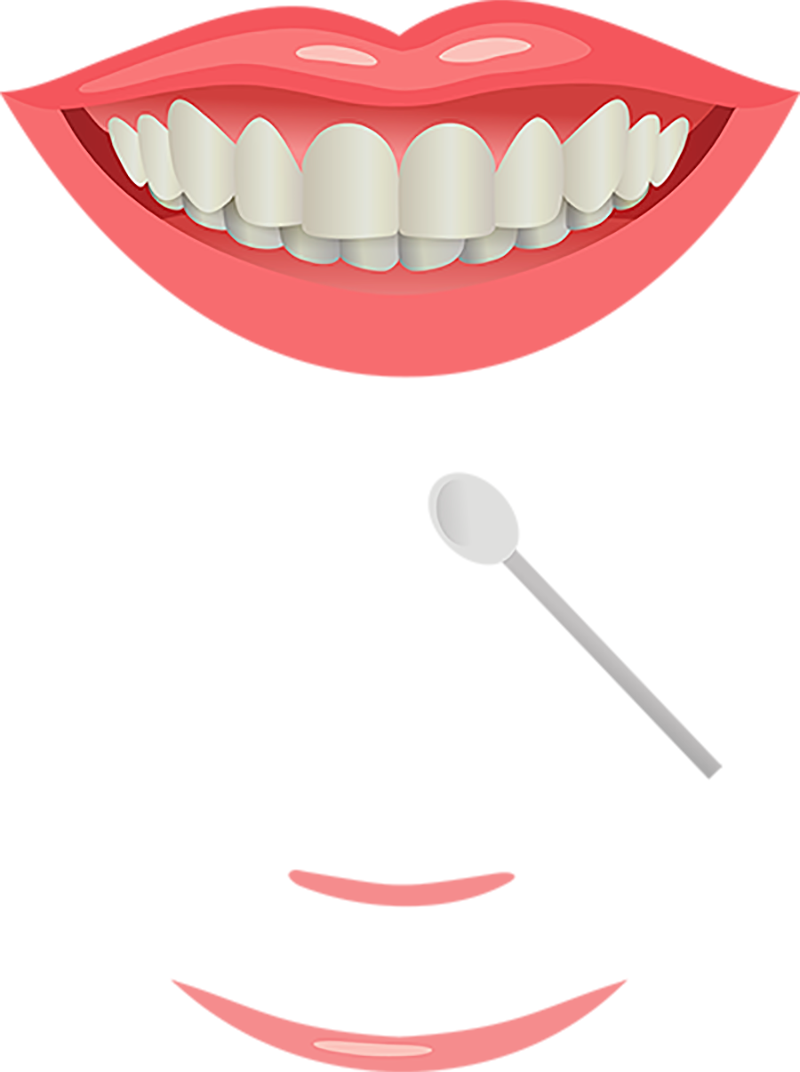
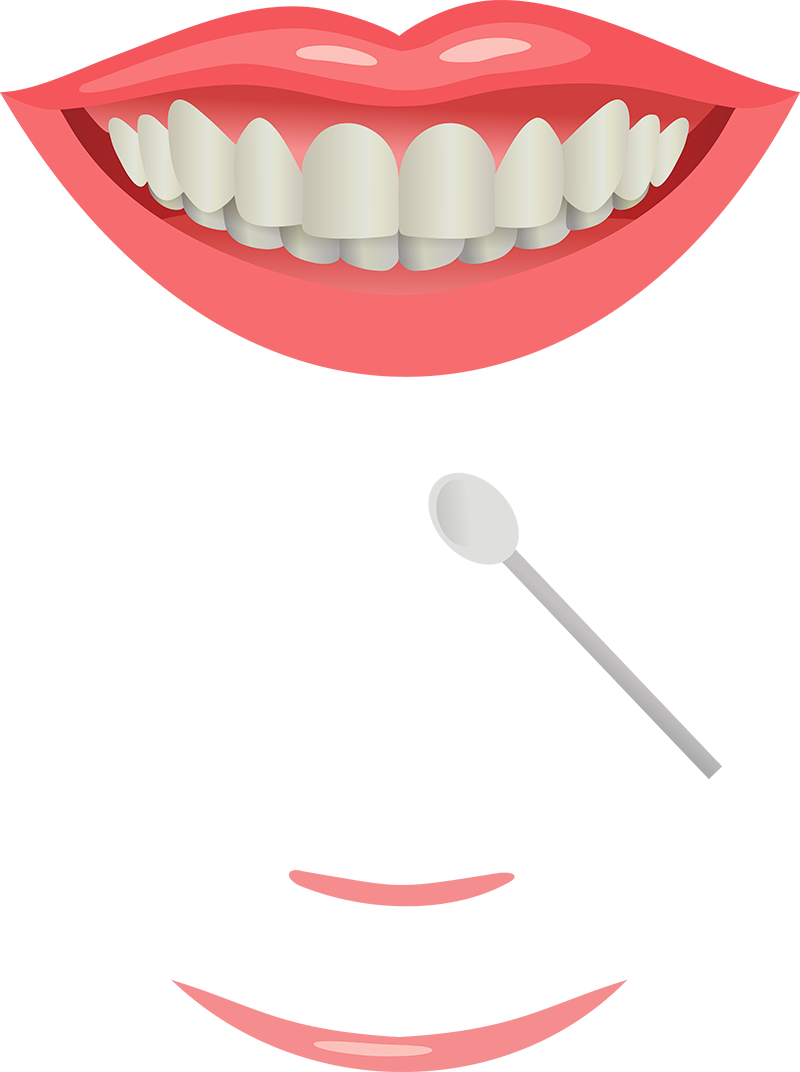
Новая ретина и отцентровка

diff --git a/css/style.css b/css/style.css
@@ -662,21 +662,21 @@ input.error,textarea.error{
 		background-image: url("../images/tooth-2.png");
 		bottom: 0px;
 		left: 201px;
-		-webkit-animation: badPick 1s 1 2s ease-in-out;
-		-moz-animation: badPick 1s 1 2s ease-in-out;
-		-ms-animation: badPick 1s 1 2s ease-in-out;
-		-o-animation: badPick 1s 1 2s ease-in-out;
-		animation: badPick 1s 1 2s ease-in-out;
+		-webkit-animation: badPick 1s 1 1.5s ease-in-out;
+		-moz-animation: badPick 1s 1 1.5s ease-in-out;
+		-ms-animation: badPick 1s 1 1.5s ease-in-out;
+		-o-animation: badPick 1s 1 1.5s ease-in-out;
+		animation: badPick 1s 1 1.5s ease-in-out;
 	}
 	.run .slick-active .tooth-3 {
 		background-image: url("../images/tooth-3.png");
 		bottom: 0px;
 		left: 241px;
-		-webkit-animation: goodPick 0.4s 1 3s ease-in-out forwards;
-		-moz-animation: goodPick 0.4s 1 3s ease-in-out forwards;
-		-ms-animation: goodPick 0.4s 1 3s ease-in-out forwards;
-		-o-animation: goodPick 0.4s 1 3s ease-in-out forwards;
-		animation: goodPick 0.4s 1 3s ease-in-out forwards;
+		-webkit-animation: goodPick 0.4s 1 2s ease-in-out forwards;
+		-moz-animation: goodPick 0.4s 1 2s ease-in-out forwards;
+		-ms-animation: goodPick 0.4s 1 2s ease-in-out forwards;
+		-o-animation: goodPick 0.4s 1 2s ease-in-out forwards;
+		animation: goodPick 0.4s 1 2s ease-in-out forwards;
 	}
 	@-webkit-keyframes badPick {
 		0% {
@@ -818,7 +818,7 @@ input.error,textarea.error{
 		background-image: url("../images/elipse.png");
 		background-repeat: no-repeat;
 		background-position: center 0px;
-		height: 373px;
+		height: 410px;
 	}
 	.main, .blesk, .big-blesk, .pen {
 		position: absolute;
@@ -828,13 +828,13 @@ input.error,textarea.error{
 		background-position: center top;
 		width: 400px;
 		height: 190px;
-		top: 31px;
+		top: 80px;
 	}
 	.slick-active .blesk {
 		background-position: center 102px;
 		width: 120px;
 		height: 24px;
-		top: 182px;
+		top: 231px;
 		left: 138px;
 		-webkit-animation: invis 0.6s 1 1.6s ease-in-out forwards;
 		-moz-animation: invis 0.6s 1 1.6s ease-in-out forwards;
@@ -846,7 +846,7 @@ input.error,textarea.error{
 		background-position: center bottom;
 		width: 232px;
 		height: 48px;
-		top: 157px;
+		top: 206px;
 		left: 84px;
 		opacity: 0;
 		-webkit-animation: vis 0.6s 1 1.5s ease-in-out forwards;
@@ -859,7 +859,7 @@ input.error,textarea.error{
 		background-position: 188px 300px;
 		width: 152px;
 		height: 156px;
-		top: 165px;
+		top: 214px;
 		left: 273px;
 		-webkit-animation: move 1.2s 1 1s ease-in-out forwards;
 		-moz-animation: move 1.2s 1 1s ease-in-out forwards;
@@ -1277,7 +1277,7 @@ input.error,textarea.error{
 	.b-4 .slide-5 .slide-picture {
 		background-image: url("../images/elipse.png");
 		background-repeat: no-repeat;
-		background-position: center;
+		background-position: center 0px;
 	}
 	.b-4 .slide-6 .slide-picture {
 		background-image: url("../images/elipse.png");
@@ -1307,8 +1307,11 @@ input.error,textarea.error{
 		-o-animation: vis 0.5s 1 1.5s ease-in-out forwards;
 		animation: vis 0.5s 1 1.5s ease-in-out forwards;
 	}
+	.slide-4 .slide-picture {
+		height: 410px;
+	}
 	.slide-4 .main-2 {
-		top: 50px;
+		top: 80px;
 	}
 	.gel-in-position {
 		position: absolute;
@@ -1316,7 +1319,7 @@ input.error,textarea.error{
 		background-position: 0px 590px;
 		width: 268px;
 		height: 112px;
-		top: 91px;
+		top: 121px;
 		left: 65px;
 	}
 	.slick-active .white-blesk {
@@ -1325,7 +1328,7 @@ input.error,textarea.error{
 		background-position: 0px 301px;
 		width: 252px;
 		height: 76px;
-		top: 108px;
+		top: 138px;
 		left: 72px;
 		opacity: 0;
 		-webkit-animation: vis 1s 1 1s ease-in-out forwards;
@@ -1340,7 +1343,7 @@ input.error,textarea.error{
 		background-position: 0px 469px;
 		width: 212px;
 		height: 76px;
-		top: 175px;
+		top: 205px;
 		left: 195px;
 		-webkit-transform: rotate(45deg);
 		-moz-transform: rotate(45deg);
@@ -1359,7 +1362,7 @@ input.error,textarea.error{
 		-ms-transform: rotate(45deg);
 		-o-transform: rotate(45deg);
 		transform: rotate(45deg);
-		top: 205px;
+		top: 235px;
 		left: 221px;
 	}
 	.slick-active .porsh {
@@ -1373,7 +1376,7 @@ input.error,textarea.error{
 		-ms-transform: rotate(45deg);
 		-o-transform: rotate(45deg);
 		transform: rotate(45deg);
-		top: 234px;
+		top: 264px;
 		left: 211px;
 		-webkit-animation: shpritz 1s 1 1s ease-in-out forwards;
 		-moz-animation: shpritz 1s 1 1s ease-in-out forwards;
